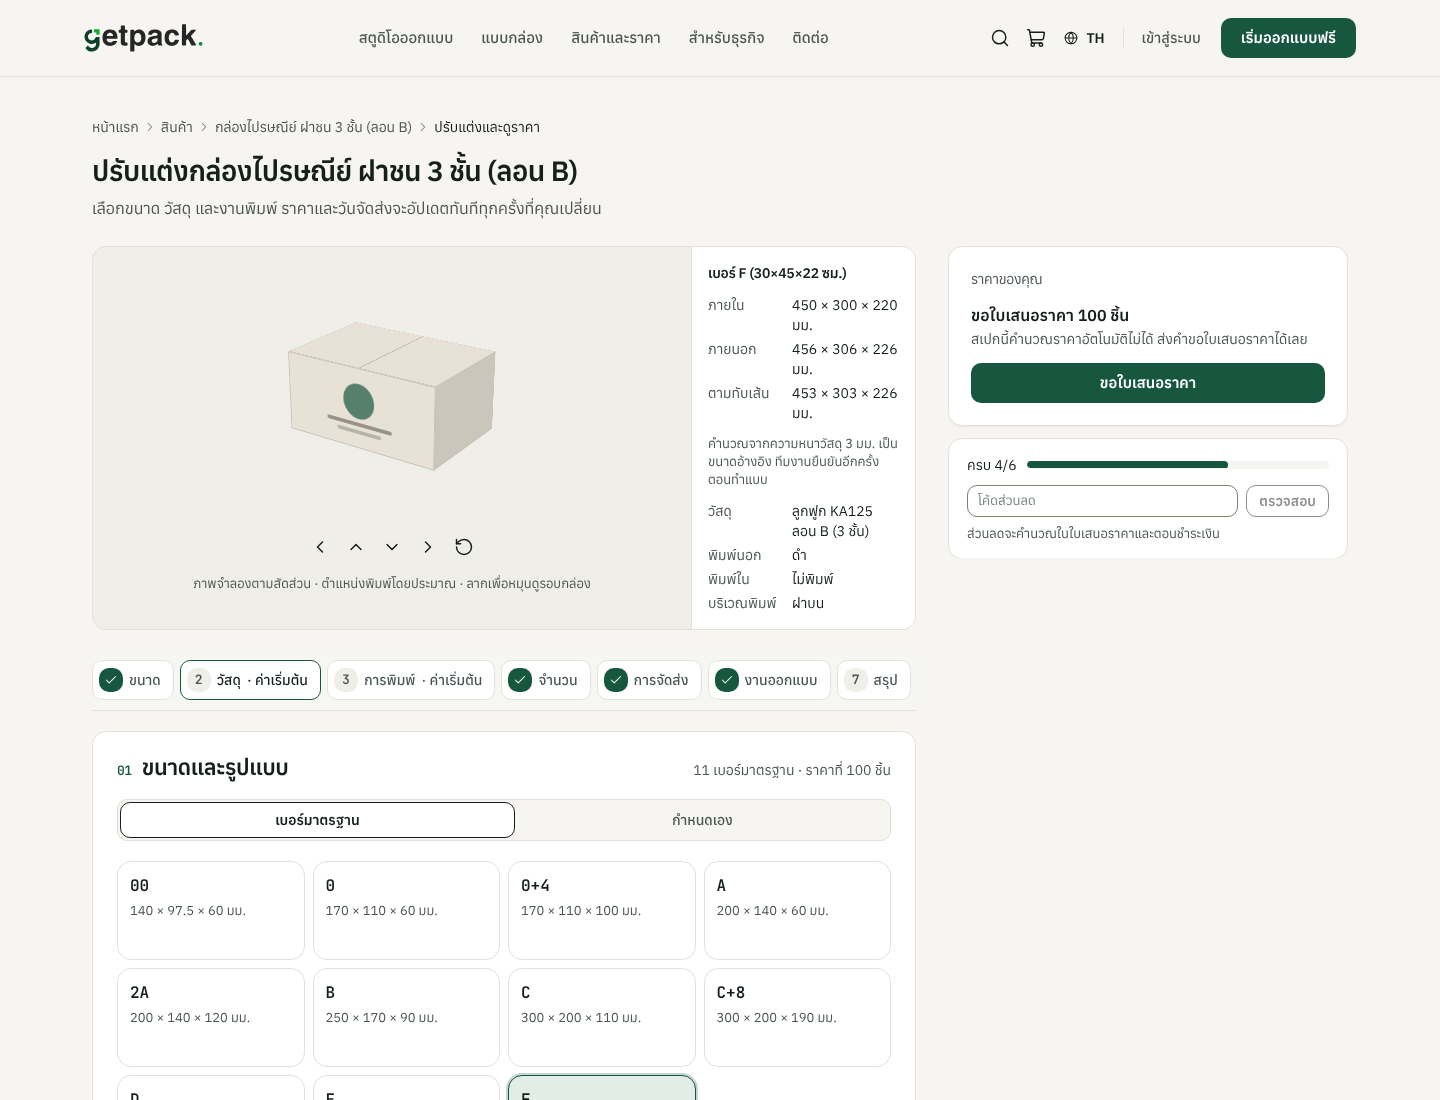
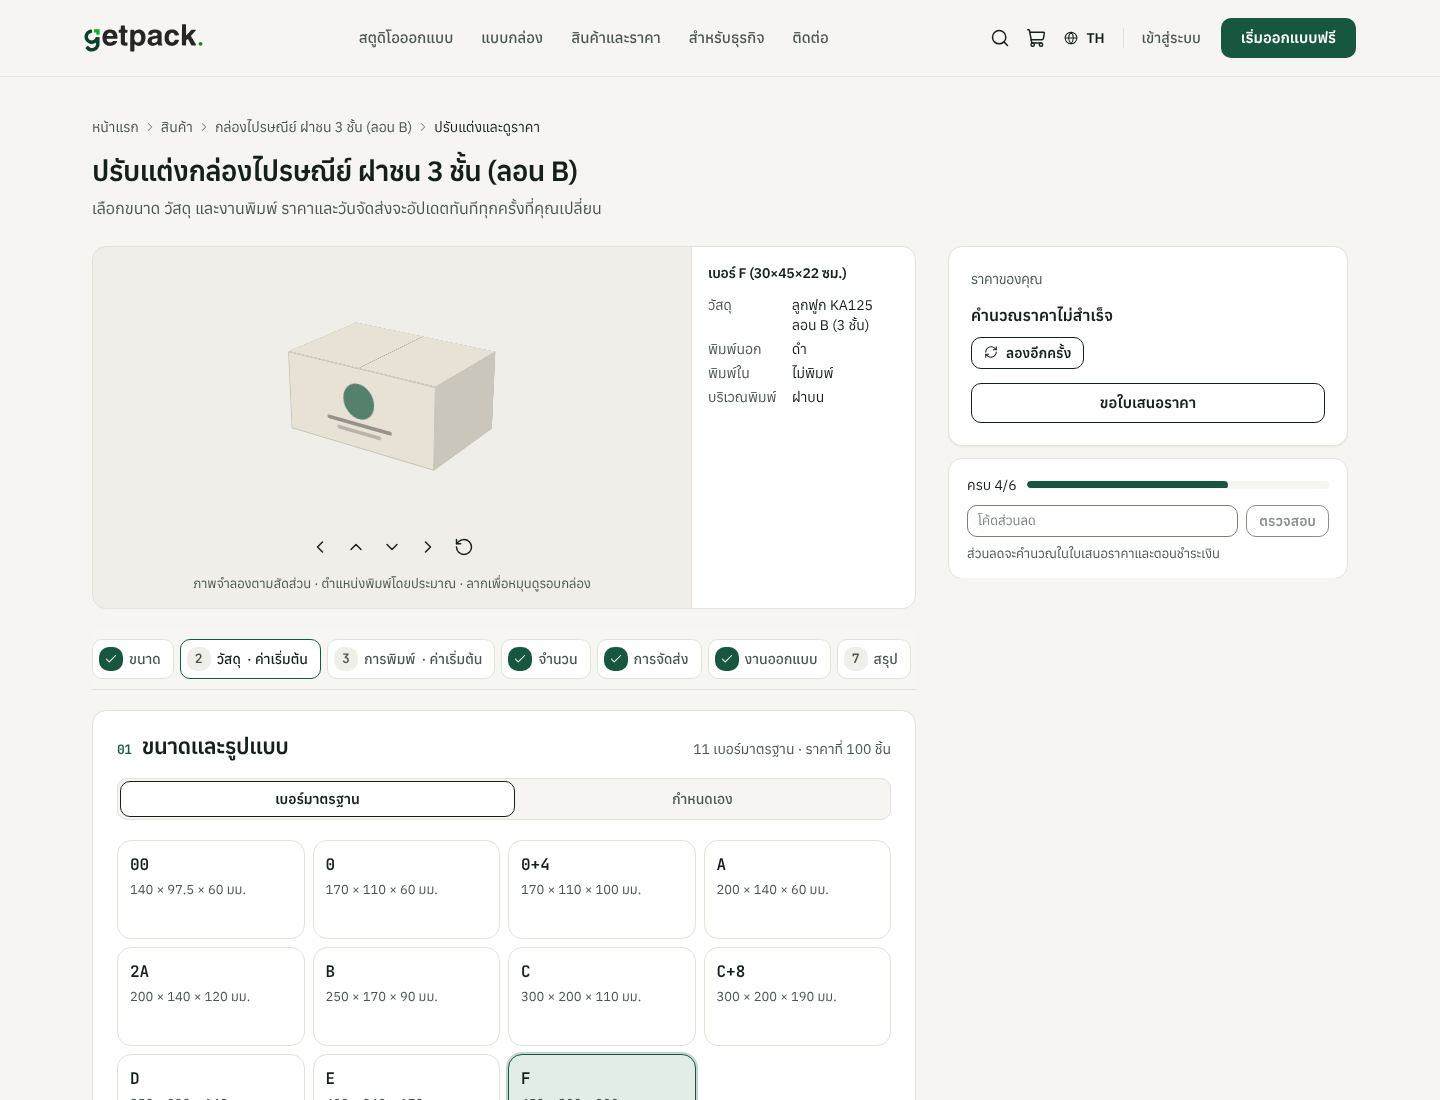
stage-c(C4): report, API-CHANGES copy and screenshots

diff --git a/docs/design/STAGE-C-REPORT.md b/docs/design/STAGE-C-REPORT.md
@@ -1,0 +1,23 @@
+# Stage C — report (web)
+
+## C4 — configurator Phase 1 (branch `design/configurator-redesign`; API repo branch of the same name)
+
+Gate: lint, typecheck, 1512 tests, build pass; no horizontal scroll at 390 px (mock + UAT); dark readable. **e2e not run** (no Docker in this
+cloud session): several specs expect the old accordion and were edited blind — `storefront-quote` (phone), `storefront-account`
+("ใบเสนอราคา" button), `configurator` / `repeat` / `samples` / `order-to-cash` ("จำนวนอื่น" / "ดูราคา", "เบอร์มาตรฐาน") — **run them locally**.
+API (getpack-api, `8048743` + `8ac64a2`): new `POST /v1/store/quotes/actions/calculate-batch` (≤ 24 variants, baselineKey → server-side signed deltas,
+20/min/client, same pricing path as `calculate`, writes only what `calculate` writes). 48 unit tests, contract regenerated; **no DB-backed test run** — run
+`price-consistency`, `studio-quotes`, `target-price`, `spec-model`, `price-hints`, `style-library`, `phase4-contract` (docker). The API branch was created from
+`fix/uat-phase0` (no `design/styles-catalog-redesign` exists in the API repo). `contract.lock.json` is still the unreleased 0.75.0 pin.
+| Items | Status | Commits |
+|---|---|---|
+| 1 layout · 2 step chips · 3 preview + dimensions panel · 10 standards/next steps · 11 sticky summary | PASS | `aa5f5d3f` `c1e4e1a0` `b279b365` `40ac755d` `03d53b4f` |
+| 4 size cards · 5 material cards · 6 print cards · 7 quantity cards (batch-priced, API deltas) | PASS | `20899168` `9ffddcd2` `bf6c8d67` `61e590a5` |
+| 8 shipping · 9 design paths · 12 URL state · 13 analytics | PASS | `7677406f` `ee5da431` `9bd83fab` `a6f6e1ab` |
+Extras: regenerated types (`e5f0b179`, `83ebe6b2`), VAT label without a hard-coded rate (no rate in the response), copy for `artwork.order_unpaid`, empty price slots collapse when the API has no batch endpoint.
+Acceptance: card price = summary price after selecting (test, mock) · one batch request per state change (test) · design defaults to the API's option, "มีไฟล์งานแล้ว" only with `?design=own_file` (test) · no raw i18n keys.
+**`calculate` budget: 30 of 30 used** (all UAT, `uat-postal-box-b`, size 00 140×97.5×60 inside, KA125 B, front = 1 ink, back none; page loads 1054/1440/390 ×2 runs, postcode 10110 (once +CMYK outside), size F 450×300×220 at qty 100/300/500/1000 → 100 = "quote", 300 = ฿116.51, 500 = ฿103.13, 1000 = ฿86.70; default spec ฿15.70 at 100–500, ฿13.61 at 1000). Last run hit the cap, so the postcode-priced summary (shipping line) is unverified on UAT.
+Screenshots `docs/design/screenshots/C4/`: `prototype-*`, `before-*`, `after-{1054-light,1440-light,390-dark}` (UAT), `after-1440-postcode-4colour[-view]`, `after-1440-quote-only[-view]` (UAT), `after-mock-{1440-light,390-dark}-{top,full}` (mock: shows the batch-priced cards).
+**Remaining differences vs prototype (reason):** option-card prices/deltas absent on UAT (the live API has no `calculate-batch` yet; empty slots collapse) — shown on the mock · no "ประหยัด x%" (API sends no saving figure) · material one-line notes empty (none approved; prototype lines are sample copy — missing: KA125 B, KT125 B, KA185 B, KA125 E) · no shipping zone name / arrival range (response has `earliestDeliveryDate` only; summary shows the province from the postcode lookup) · "แก้ฟรี 3 ครั้ง" omitted (no data) · sample checkbox shows no date impact (service returns none) · no print-area illustration (none exists) · "VAT" label without the rate (API sends only the amount) · chips square, no pills and no gradients (design-language tests) · unit toggle keeps ยาว×กว้าง×สูง (prototype switches order) · real photos not illustrations · tier cards use the repo's RadioCards.
+**Open questions:** VAT rate for the label · saving % from the API? · approved material descriptions (4) · shipping zone name + arrival range in `calculate` · postcode in account preferences · free revision count source · upload-before-cart flow still absent (copy says upload after ordering) · "ค่าเริ่มต้น" clears on any press in a step — only on a real change? · `calculateBatch` lists `accept-language` as a required header (contract quirk) · `deliveryPostcode`/`targetPricePerUnit` not in the batch body.
+**You must check:** run the touched e2e specs and the API's docker specs; deploy the API branch to UAT and re-take the three UAT shots (price/delta on every card, acceptance equality); verify the shipping line with a postcode; the design step on a hired/own-file product; 390 px sticky bar vs bottom nav + LINE button; keyboard through the chips and cards.
